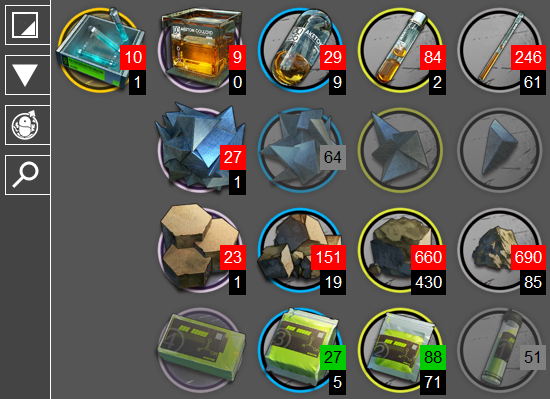
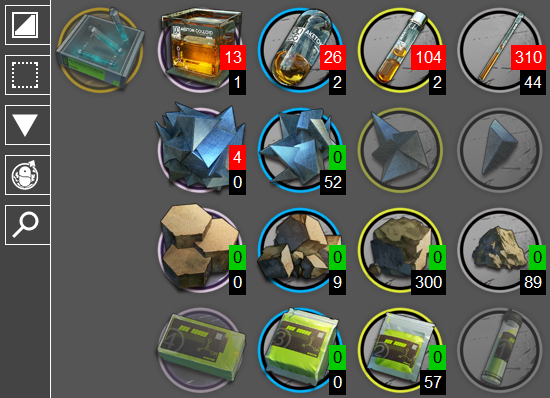
allow toggling between full requirements and missing requirements

diff --git a/Depot.py b/Depot.py
@@ -30,12 +30,14 @@ class Depot(LockableCanvas):
         self.contents = {}
         self.trueRequirements = {}
         self.craftingRequirements = {}
+        self.missingMaterials = {}
+        self.missingLabels = {}
         self.craftable = []
         self.requirementLabels = {}
 
         self.indicators = {}
 
-        controlCanvasHeight = self.scale // 2 * 3
+        controlCanvasHeight = self.scale // 2 * 4
         if CONFIG.depotParsingEnabled:
             controlCanvasHeight += self.scale // 2
         self.controlCanvas = LockableCanvas(self.controlCanvasParent, highlightthickness=0, bg=CONFIG.backgroundColor, width=scale // 2, height=controlCanvasHeight)
@@ -51,21 +53,25 @@ class Depot(LockableCanvas):
             else:
                 self.placeItemIndicator(m, x, y)
 
-        self.indicatorToggleButton = ImageCheckbutton(self.controlCanvas, 0, 0, callback=self.toggleVisibility,
+        self.indicatorToggleButton = ImageCheckbutton(self.controlCanvas, 0, 0, callback=lambda state: self.draw(),
             images=(UI_ELEMENTS["visibility-full"].getPhotoImage(self.scale // 2),
                     UI_ELEMENTS["visibility-partial"].getPhotoImage(self.scale // 2),
                     UI_ELEMENTS["visibility-low"].getPhotoImage(self.scale // 2)))
 
-        self.pageToggleButton = ImageCheckbutton(self.controlCanvas, 0, self.scale // 2, callback=self.togglePage,
+        self.labelToggleButton = ImageCheckbutton(self.controlCanvas, 0, self.scale // 2, callback=lambda state : self.draw(),
+            images=(UI_ELEMENTS["total"].getPhotoImage(self.scale // 2),
+                    UI_ELEMENTS["missing"].getPhotoImage(self.scale // 2)))
+
+        self.pageToggleButton = ImageCheckbutton(self.controlCanvas, 0, self.scale // 2 * 2, callback=self.togglePage,
             images= (UI_ELEMENTS["arrow-down"].getPhotoImage(self.scale // 2),
                      UI_ELEMENTS["arrow-up"].getPhotoImage(self.scale // 2)))
 
-        self.exportButton = self.controlCanvas.create_image(0 , self.scale // 4 * 5,
+        self.exportButton = self.controlCanvas.create_image(0 , self.scale // 4 * 7,
                                                             image=UI_ELEMENTS["export"].getPhotoImage(self.scale // 2), anchor=W)
         self.controlCanvas.tag_bind(self.exportButton, "<Button-1>", lambda e: self.exportContentsForPenguinStats())
 
         if CONFIG.depotParsingEnabled:
-            self.researchButton = self.controlCanvas.create_image(0, self.scale // 4 * 7,
+            self.researchButton = self.controlCanvas.create_image(0, self.scale // 4 * 9,
                                                                   image=UI_ELEMENTS["research-button"].getPhotoImage(self.scale // 2), anchor=W)
             self.controlCanvas.tag_bind(self.researchButton, "<Button-1>", lambda e: self.parseDepot())
 
@@ -77,12 +83,15 @@ class Depot(LockableCanvas):
         self.contents[material] = IntVar(value = initialAmount)
         self.contents[material].trace("w", lambda *args: self.updateItemRequirementsInternal())
 
+        labelArgs = { "x": (x + 1) * self.scale - self.scale // 20,
+                      "y": (y + 1) * self.scale - self.scale // 4 - self.scale // 20,
+                      "height": self.scale // 5,
+                      "anchor": SE }
+
         self.craftingRequirements[material] = IntVar()
-        self.requirementLabels[material] = CanvasLabel(self.contentCanvas,
-                                                       (x + 1) * self.scale - self.scale // 20,
-                                                       (y + 1) * self.scale - self.scale // 4 - self.scale // 20,
-                                                       var=self.craftingRequirements[material],
-                                                       height=self.scale // 5, anchor=SE)
+        self.requirementLabels[material] = CanvasLabel(self.contentCanvas, var=self.craftingRequirements[material], **labelArgs)
+        self.missingMaterials[material] = IntVar()
+        self.missingLabels[material] = CanvasLabel(self.contentCanvas, var=self.missingMaterials[material], **labelArgs)
 
         multiplier = 1
         if material.name == "money":
@@ -90,10 +99,11 @@ class Depot(LockableCanvas):
 
         i = ItemIndicator(self.contentCanvas, self.scale, material, x * self.scale, y * self.scale, self.amountLabelHeight,
                           self.contents[material], scrollable=True, incrementMultiplier=multiplier,
-                          additionalLabels=[self.requirementLabels[material]])
+                          additionalLabels=[self.requirementLabels[material], self.missingLabels[material]])
         i.bind("<Button-1>", lambda e: self.displayRecipe(material, x, y), incrementors=False)
 
         self.requirementLabels[material].raiseWidgets()
+        self.missingLabels[material].raiseWidgets()
         self.indicators[material] = i
 
     def updateItemRequirements(self, requirements):
@@ -111,12 +121,13 @@ class Depot(LockableCanvas):
                 if m.tier == tier and m.isCraftable():
                     c = Counter(m.getIngredients())
                     requirements += multiplyCounter(c, (max(0, requirements[m] - self.contents[m].get())))
-
         for m in self.craftingRequirements.keys():
-            if m in requirements:
-                self.craftingRequirements[m].set(requirements[m])
-            else:
-                self.craftingRequirements[m].set(0)
+            self.craftingRequirements[m].set(requirements[m])
+
+        missing = self.trueRequirements.copy()
+        craftPossible(missing, Counter(unpackVar(self.contents)))
+        for m in self.missingMaterials.keys():
+            self.missingMaterials[m].set(missing[m])
 
         self.craftable = []
         for i in range(5):
@@ -138,7 +149,7 @@ class Depot(LockableCanvas):
 
     def draw(self):
         for m in self.craftingRequirements.keys():
-            self.drawRequirementLabel(m)
+            self.drawRequirementLabel(m, self.labelToggleButton.state)
         self.renderIndicatorVisibility(self.indicatorToggleButton.state)
 
     def togglePage(self, state):
@@ -149,31 +160,30 @@ class Depot(LockableCanvas):
 
         self.contentCanvas.config(scrollregion=(0, offset, self.width, offset + self.totalHeight))
 
-    def toggleVisibility(self, state):
-        self.renderIndicatorVisibility(state)
-
     def renderIndicatorVisibility(self, state):
         for m in self.indicators.keys():
             if self.craftingRequirements[m].get() == 0 and state > 0:
                 self.indicators[m].hide()
-            elif self.craftingRequirements[m].get() <= self.contents[m].get() and state > 1:
+            elif self.missingMaterials[m].get() == 0 and state > 1:
                 self.indicators[m].hide()
             else:
                 self.indicators[m].show()
 
-    def drawRequirementLabel(self, material):
-        x, y = material.getPosition()
-
+    def drawRequirementLabel(self, material, showMissingAmount):
         if self.craftingRequirements[material].get() > 0:
-            self.requirementLabels[material].show()
+            self.missingLabels[material].setHidden(not showMissingAmount)
+            self.requirementLabels[material].setHidden(showMissingAmount)
         else:
+            self.missingLabels[material].hide()
             self.requirementLabels[material].hide()
 
-        if self.craftingRequirements[material].get() > self.contents[material].get():
-            if not material.isCraftable() or not material in self.craftable:
-                self.requirementLabels[material].changeColor(color=CONFIG.depotColorInsufficient, fontColor=CONFIG.depotColorInsufficientFont)
-            else:
-                self.requirementLabels[material].changeColor(color=CONFIG.depotColorCraftable, fontColor=CONFIG.depotColorCraftableFont)
+        if self.missingMaterials[material].get() > 0:
+            self.missingLabels[material].changeColor(color=CONFIG.depotColorInsufficient, fontColor=CONFIG.depotColorInsufficientFont)
+        else:
+            self.missingLabels[material].changeColor(color=CONFIG.depotColorSufficient, fontColor=CONFIG.depotColorSufficientFont)
+
+        if self.craftingRequirements[material].get() > self.contents[material].get() and (not material.isCraftable or not material in self.craftable):
+            self.requirementLabels[material].changeColor(color=CONFIG.depotColorInsufficient, fontColor=CONFIG.depotColorInsufficientFont)
         else:
             self.requirementLabels[material].changeColor(color=CONFIG.depotColorSufficient, fontColor=CONFIG.depotColorSufficientFont)
 

diff --git a/util.py b/util.py
@@ -2,6 +2,7 @@ import json
 import logging
 import os.path
 import sys
+from collections import Counter
 
 from PIL import Image
 
@@ -20,10 +21,8 @@ class Config:
                  highlightUpgrades = False,
                  amountColor = "black",
                  amountColorFont = "white",
-                 depotColorSufficient = "gray",
+                 depotColorSufficient = "#00CC00",
                  depotColorSufficientFont = "black",
-                 depotColorCraftable = "#00DD00",
-                 depotColorCraftableFont = "black",
                  depotColorInsufficient = "red",
                  depotColorInsufficientFont ="white",
                  gamepressUrl ="https://gamepress.gg/arknights/operator/",
@@ -52,8 +51,6 @@ class Config:
         self.highlightUpgrades = highlightUpgrades
         self.depotColorSufficient = depotColorSufficient
         self.depotColorSufficientFont = depotColorSufficientFont
-        self.depotColorCraftable = depotColorCraftable
-        self.depotColorCraftableFont = depotColorCraftableFont
         self.depotColorInsufficient = depotColorInsufficient
         self.depotColorInsufficientFont = depotColorInsufficientFont
         self.gamepressUrl = gamepressUrl
@@ -117,6 +114,43 @@ def multiplyCounter(counter, factor):
         counter[k] *= factor
     return counter
 
+def craftPossible(missing, available):
+    for tier in range(5, 0, -1):
+        for m in list(missing.keys()):
+            if m.tier != tier:
+                continue
+
+            while missing[m] > 0:
+                path = findCraftingPath(m, available)
+                if path is None:
+                    break
+                else:
+                    missing[m] -= 1
+                    available -= path
+
+            if m.isCraftable():
+                missing += Counter(multiplyCounter(m.getIngredients(), missing[m]))
+
+def findCraftingPath(material, available):
+    if available[material] > 0:
+        return Counter({ material: 1 })
+    if not material.isCraftable():
+        return None
+
+    path = Counter(material.getIngredients())
+    while True:
+        if path <= available:
+            return path
+        else:
+            for m in list(path.keys()):
+                if available[m] >= path[m]:
+                    continue
+                if not m.isCraftable():
+                    return None
+
+                need = max(0, path[m] - available[m])
+                path += multiplyCounter(Counter(m.getIngredients()), need)
+                path[m] -= need
 
 LOGGER = logging.getLogger("ArknightsMaterials")
 LOGGER.setLevel(logging.DEBUG)

diff --git a/widgets.py b/widgets.py
@@ -104,15 +104,21 @@ class CanvasLabel:
         if fontColor is not None:
             self.parent.itemconfigure(self.text, fill = fontColor)
 
-
     def hide(self):
-        self.parent.itemconfigure(self.text, state="hidden")
-        self.parent.itemconfigure(self.background, state="hidden")
+        self.setHidden(True)
 
     def show(self):
-        self.parent.itemconfigure(self.text, state="normal")
-        self.parent.itemconfigure(self.background, state="normal")
-        self.updateText()
+        self.setHidden(False)
+
+    def setHidden(self, hidden):
+        if hidden:
+            self.parent.itemconfigure(self.text, state="hidden")
+            self.parent.itemconfigure(self.background, state="hidden")
+        else:
+            self.parent.itemconfigure(self.text, state="normal")
+            self.parent.itemconfigure(self.background, state="normal")
+            self.updateText()
+
 
     def raiseWidgets(self):
         self.parent.tag_raise(self.background)

diff --git a/database.py b/database.py
@@ -233,6 +233,8 @@ UIElement("check-on", "check-on.png")
 UIElement("visibility-full", "visibility-full.png")
 UIElement("visibility-partial", "visibility-partial.png")
 UIElement("visibility-low", "visibility-low.png")
+UIElement("missing", "missing.png")
+UIElement("total", "total.png")
 UIElement("arrow-up", "arrow-up.png")
 UIElement("arrow-down", "arrow-down.png")
 UIElement("drag", "drag.png")

diff --git a/utilImport.py b/utilImport.py
@@ -1,3 +1,4 @@
 from util import LOGGER, CONFIG, MATERIALS, UI_ELEMENTS, UPGRADES, OPERATORS, \
     loadImage, colorize, safeOpen, safeSave, createDirsIfNeeded, hasExtension, \
-    toUpgrades, toMaterials, toOperators, toExternal, unpackVar, multiplyCounter
+    toUpgrades, toMaterials, toOperators, toExternal, unpackVar, multiplyCounter, \
+    craftPossible

diff --git a/README.md b/README.md
@@ -1,6 +1,6 @@
 # Arknights Material Planner
 
-![A full screenshot of the applicaiton](/img/readme/full-screenshot.png)
+![A full screenshot of the application](/img/readme/full-screenshot.png)
 
 Streamline your Arknights planning with this all-in-one solution. Simply select the operator and the upgrade and let the
 tool do the rest.
@@ -9,16 +9,16 @@ Requirements are **downloaded automatically** so no more researching upgrades an
 materials you need to farm.
 
 Compare the **total of your selected upgrades** against what is in your depot, **see what you could craft** and what you
-are missing. Since keeping track of your depot's contents manually is exhausting let the tool do that too! Simply click 
+are missing. Since keeping track of your depot's contents manually is exhausting let the tool do that too! Simply click
 one button and sit back as **image and text recognition** tells you exactly **what materials you have on hand**.
 
 ## Quick Setup
 
-1. Download the latest version of Arknights Material Planner from the releases tab and unzip it into a folder of your
+1. Download Tesseract from [here](https://github.com/UB-Mannheim/tesseract/wiki) and run the installer.
+2. Download the latest version of Arknights Material Planner from the releases tab and unzip it into a folder of your
    choice
-2. Download Tesseract from here: https://github.com/UB-Mannheim/tesseract/wiki and run the installer.
 3. Rename `config-defaults.json` to `config.json` and open it in Notepad.
-4. Modify the line that says: `"tesseractExeLocation": null,` to contain the location to the tesseract.exe which is 
+4. Modify the line that says: `"tesseractExeLocation": null,` to contain the location to the tesseract.exe which is
    located in the folder you chose for the tesseract installation.
     1. The path needs to be in quotes(`"`) and backslashes(``\``) need to be escaped. Here is a full example:
     2. `"tesseractExeLocation": "C:\\Program Files\\tesseractOCR\\tesseract.exe",`
@@ -49,23 +49,24 @@ one button and sit back as **image and text recognition** tells you exactly **wh
 * Focus on only the materials needed in your selected upgrades ![The depot switch in partial state](/img/ui/visibility-partial.png)
   or only on those you are still missing ![The depot switch in the lowest state](/img/ui/visibility-low.png).
 * See indicators of how many materials you need of each type in
-    * Gray if you have enough of the material,
-    * Green if you can craft enough of the material,
+    * Green if you already have enough or can craft enough of the material,
     * Red if you don't have enough of the material.
     * The Colors and text colors are **fully customizable**, see the configuration reference below.
+* Indicators can be switched between displaying the full amount that is needed ![The Indicator toggle in full state](/img/ui/total.png)
+  and the amount that is still missing after subtracting current stock and crafting ![The Indicator toggle in missing state](/img/ui/missing.png).
 * A second page ![The button to toggle between the pages](/img/ui/arrow-down.png) is available for skill books, module
   components and experience cards and chips and LMD.
 
 ### Penguin Stats Export
 
 Use https://penguin-stats.io/planner to plan your long-term farming strategy. Click the export
-button ![The export button](/img/ui/export.png) and get all of the information in the depot copied to your clipboard. 
+button ![The export button](/img/ui/export.png) and get all the information in the depot copied to your clipboard.
 You can then paste and import that directly on Penguin Stats.
 
 ### Depot Scanning
 
-If you play Arknights on PC you can make use of the image- and text recognition feature to scan and import 
-![The button to toggle between the pages](/img/ui/research-button.png) the contents of your depot list into
+If you play Arknights on PC you can make use of the image- and text recognition feature to scan and import
+![The button to start scanning the depot](/img/ui/research-button.png) the contents of your depot list into
 the tool automatically.
 
 * **This is unfortunately only 99% accurate. It can happen that the tool will miss certain digits or add digits that
@@ -92,7 +93,7 @@ the tool automatically.
 
 Click on any Material in the depot to display its recipe if it has one.
 
-Please note that Chips are currently not considered craftable.
+**Please note that Class Chips are currently not considered craftable.**
 
 ### Color Settings
 
@@ -116,7 +117,7 @@ the position if necessary. The color behind the image can also be separately con
 * This tool has been primarily tested with BlueStacks. A configuration for other emulators can likely be found but is
   not guaranteed. As an example, Windows 11's native android emulation can not be interacted with in the same way
   BlueStacks can. As a result, it is not compatible with the depot scanning feature.
-* Text Recognition(OCR) is not a perfect technology. Mistakes can and will happen so I doubt the depot scanning feature
+* Text Recognition(OCR) is not a perfect technology. Mistakes can and will happen, so I doubt the depot scanning feature
   will ever be 100% accurate. Please do not submit bug reports for every single misread.
     * Additionally, this has been tested on the english client. I have seen that the korean client uses a different font
       for numbers. This might throw off the tool as well.
@@ -152,10 +153,8 @@ Configuration is read from a file called `config.json` and is a single JSON-Obje
 | `highlightUpgrades`          | Boolean         | `false`                                      | Whether to also recolor the **Upgrade icons** with `hightlightColor`. Good for light background colors.                                                                                                                                                                                                                |
 | `amountColor`                | String/Color    | `"black"`                                    | Controls the **color** of the labels displaying the **amount of materials**                                                                                                                                                                                                                                            |
 | `amountColorFont`            | String/Color    | `"white"`                                    | Controls the **text color** in `amountColor`                                                                                                                                                                                                                                                                           |
-| `depotColorSufficient`       | String/Color    | `"gray"`                                     | Controls the **color** of the labels displaying **sufficient amount of stock**                                                                                                                                                                                                                                         |
-| `depotColorSufficientFont`   | String/Color    | `"white"`                                    | Controls the **text color** in `depotColorSufficient`                                                                                                                                                                                                                                                                  |
-| `depotColorCraftable`        | String/Color    | `"#00DD00"`                                  | Controls the **color** of the labels displaying **insufficient stock that can be crafted**                                                                                                                                                                                                                             |
-| `depotColorCraftableFont`    | String/Color    | `"black"`                                    | Controls the **text color** in `depotColorCraftable`                                                                                                                                                                                                                                                                   |
+| `depotColorSufficient`       | String/Color    | `"#00CC00"`                                  | Controls the **color** of the labels displaying **sufficient or craftable stock**                                                                                                                                                                                                                                      |
+| `depotColorSufficientFont`   | String/Color    | `"black"`                                    | Controls the **text color** in `depotColorSufficient`                                                                                                                                                                                                                                                                  |
 | `depotColorInsufficient`     | String/Color    | `"red"`                                      | Controls the **color** of the labels displaying **insufficient stock**                                                                                                                                                                                                                                                 |
 | `depotColorInsufficientFont` | String/Color    | `"black"`                                    | Controls the **text color** in `depotColorInsufficient`                                                                                                                                                                                                                                                                |
 | `gampressUrl`                | String/URL      | `"https://gamepress.gg/arknights/operator/"` | The **base URL** for Operators on **Gamepress**. Just in case this ever changes.                                                                                                                                                                                                                                       |
